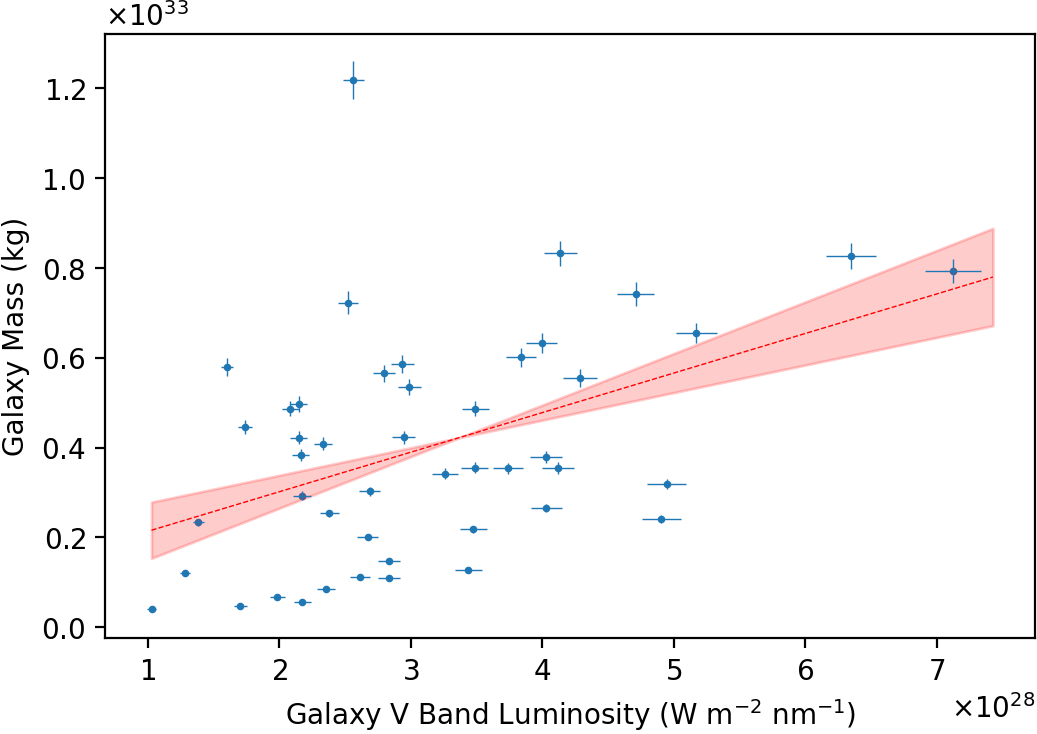
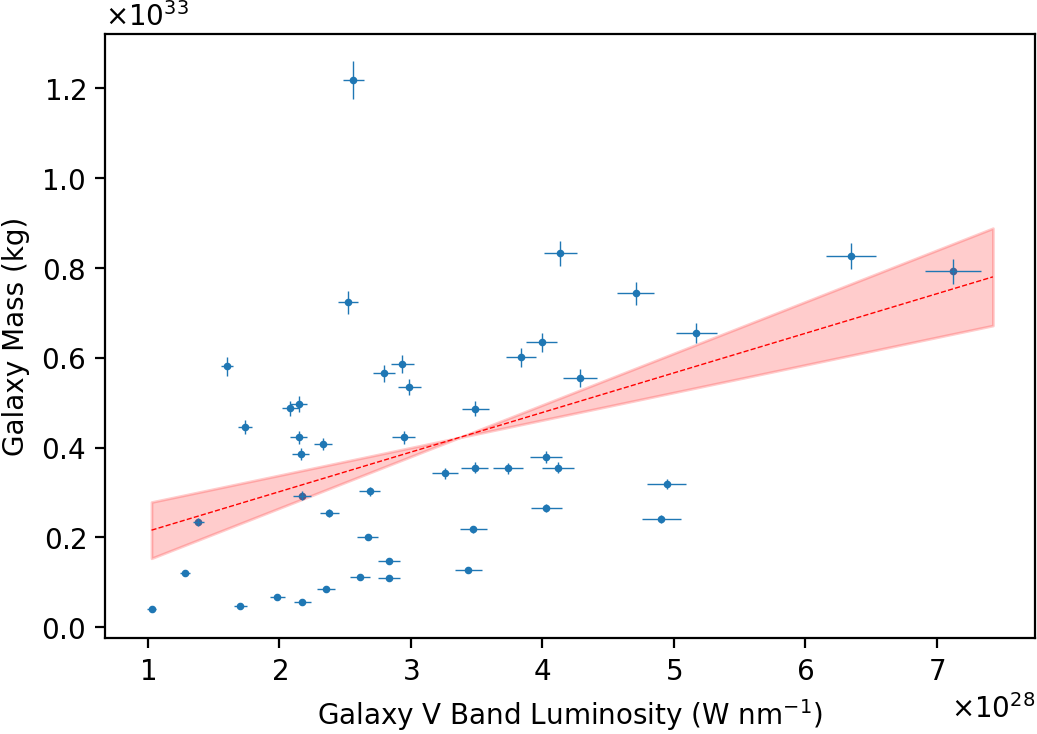
Basic Total vs Luminous Cluster Mass, and fixed M/L Graph label

Changed region(s): [[0.2777, 0.9591, 0.8332, 1.0], [0.5863, 0.3896, 0.6172, 0.4196], [0.2777, 0.5995, 0.3086, 0.6294]]

diff --git a/Cluster Analysis/mainAnalysis.py b/Cluster Analysis/mainAnalysis.py
@@ -296,7 +296,7 @@ for luminosity in clusterGreenLumins:
 fig, ax = plt.subplots()
 plt.scatter(clusterGreenLumins, clusterMasses, s=3)
 ax.set_ylabel("Galaxy Mass (kg)")
-ax.set_xlabel("Galaxy V Band Luminosity (W m$^{-2}$ nm$^{-1}$)")
+ax.set_xlabel("Galaxy V Band Luminosity (W nm$^{-1}$)")
 
 x = arange(min(clusterGreenLumins), 1.05*max(clusterGreenLumins), 10**27, dtype=float64)
 z,cov = polyfit(clusterGreenLumins, clusterMasses, 1, cov=True)     #this finds the linear fit for the data
@@ -306,6 +306,8 @@ upper = (z[0] + gradUnc) * x + (z[1] - intUnc)
 lower = (z[0] - gradUnc) * x + (z[1] + intUnc)
 plt.plot(x,p(x),"r--", linewidth=0.5)
 plt.fill_between(x, lower, upper, color='r', alpha=0.2)
+MLgrad = z[0]; MLgradUnc = gradUnc
+MLint = z[1]; MLintUnc = intUnc
 
 print(f"M=({z[0]:0.5f} \pm {round(gradUnc,5)}) L + ({z[1]:0.3f} \pm {round(intUnc, 2)}) km/s \nR^2 = {r2_score(clusterMasses,p(clusterGreenLumins)):0.3f}")
 plt.errorbar(clusterGreenLumins, clusterMasses, yerr=massUnc, xerr=luminUnc, fmt=',', linewidth=0.5)
@@ -391,6 +393,8 @@ fig.savefig(dir_path + '/Size vs Distance.pdf', dpi=200, bbox_inches='tight', pa
 
 plt.clf()
 
+
+#The following code analyses and plots the homogeneity (number density) of the universe
 galaxDistVels = []; dists = []
 galaxVels = galaxData['RadialVelocity']
 for velocity in galaxVels:
@@ -405,11 +409,10 @@ radius = maxradius
 volume = 4/3 * pi * radius**3 / shells
 shell = zeros(shells)
 while i < shells+1:
-    # radius = (radius**3 - volume)**(1/3)
     radius = maxradius * (i / shells)**(1/3)
     radii.append(radius)
     i += 1
-# radii = radii[::-1]
+
 distUncs = zeros(shells)
 for galaxy in sortedGalaxies:
     distance = galaxy[0]
@@ -438,3 +441,36 @@ plt.plot(x, homogeneity_func(x, coefficients[0], coefficients[1], coefficients[2
 fig.savefig(dir_path+'\\Distance Distribution.png', dpi=400, bbox_inches='tight', pad_inches = 0.01)
 fig.savefig(dir_path+'\\Distance Distribution.pdf', dpi=400, bbox_inches='tight', pad_inches = 0.01)
 plt.close(fig)
+
+#the following analyses the luminous-to-total cluster mass
+GalClustPath = dir_path.replace("Cluster Analysis", "Data\Camera Images\Fuzzy Clusters")
+
+for cluster in os.listdir(GalClustPath):
+    try:
+        clusterdata = pd.read_csv(GalClustPath + f"\{cluster}", delimiter=' ')
+        clustername = cluster.replace(".txt", "")
+        clusterGreenF = clusterdata['GreenFlux']
+        clusterEquat = clusterdata['Equatorial']; clusterPolar = clusterdata['Polar']
+        clusterVel = clusterdata['RadialVelocity']
+        clusterDist = clusterdata['Distance']
+        clustFastECoord = clusterEquat.loc[clusterVel == min(clusterVel)].iloc[0]
+        clustFastPCoord = clusterPolar.loc[clusterVel == min(clusterVel)].iloc[0]
+        clustSlowECoord = clusterEquat.loc[clusterVel == max(clusterVel)].iloc[0]
+        clustSlowPCoord = clusterPolar.loc[clusterVel == max(clusterVel)].iloc[0]
+        clustPolarExtent = (max([clustFastPCoord, clustSlowPCoord]) - min([clustFastPCoord, clustSlowPCoord])) / 2
+        clustEquatExtent = (max([clustFastECoord, clustSlowECoord]) - min([clustFastECoord, clustSlowECoord])) / 2
+        clustAngRadius = sqrt(clustPolarExtent**2 + clustEquatExtent**2)
+        clustRadius = clusterDist[1] * tan(clustAngRadius * pi / 180) * 3.086 * 10**16
+        highVel = clusterVel.loc[clusterVel == max(clusterVel)].iloc[0]
+        lowVel = clusterVel.loc[clusterVel == min(clusterVel)].iloc[0]
+        dispersion = 3 * abs(highVel - lowVel)
+        # dispersion = 3 * std(clusterVel)
+        totClustMass = (3 * pi * clustRadius * dispersion**2) / (2 * 6.67 * 10**(-11))
+        ClustLumMass = 0
+        for index, greenlum in enumerate(clusterGreenF):
+            galaxMass = MLgrad * (greenlum * 4 * pi * clusterDist[index] * 3.086 * 10**16) + MLint
+            ClustLumMass += galaxMass
+        # print(totClustMass - ClustLumMass)
+    except KeyError:
+        pass
+
